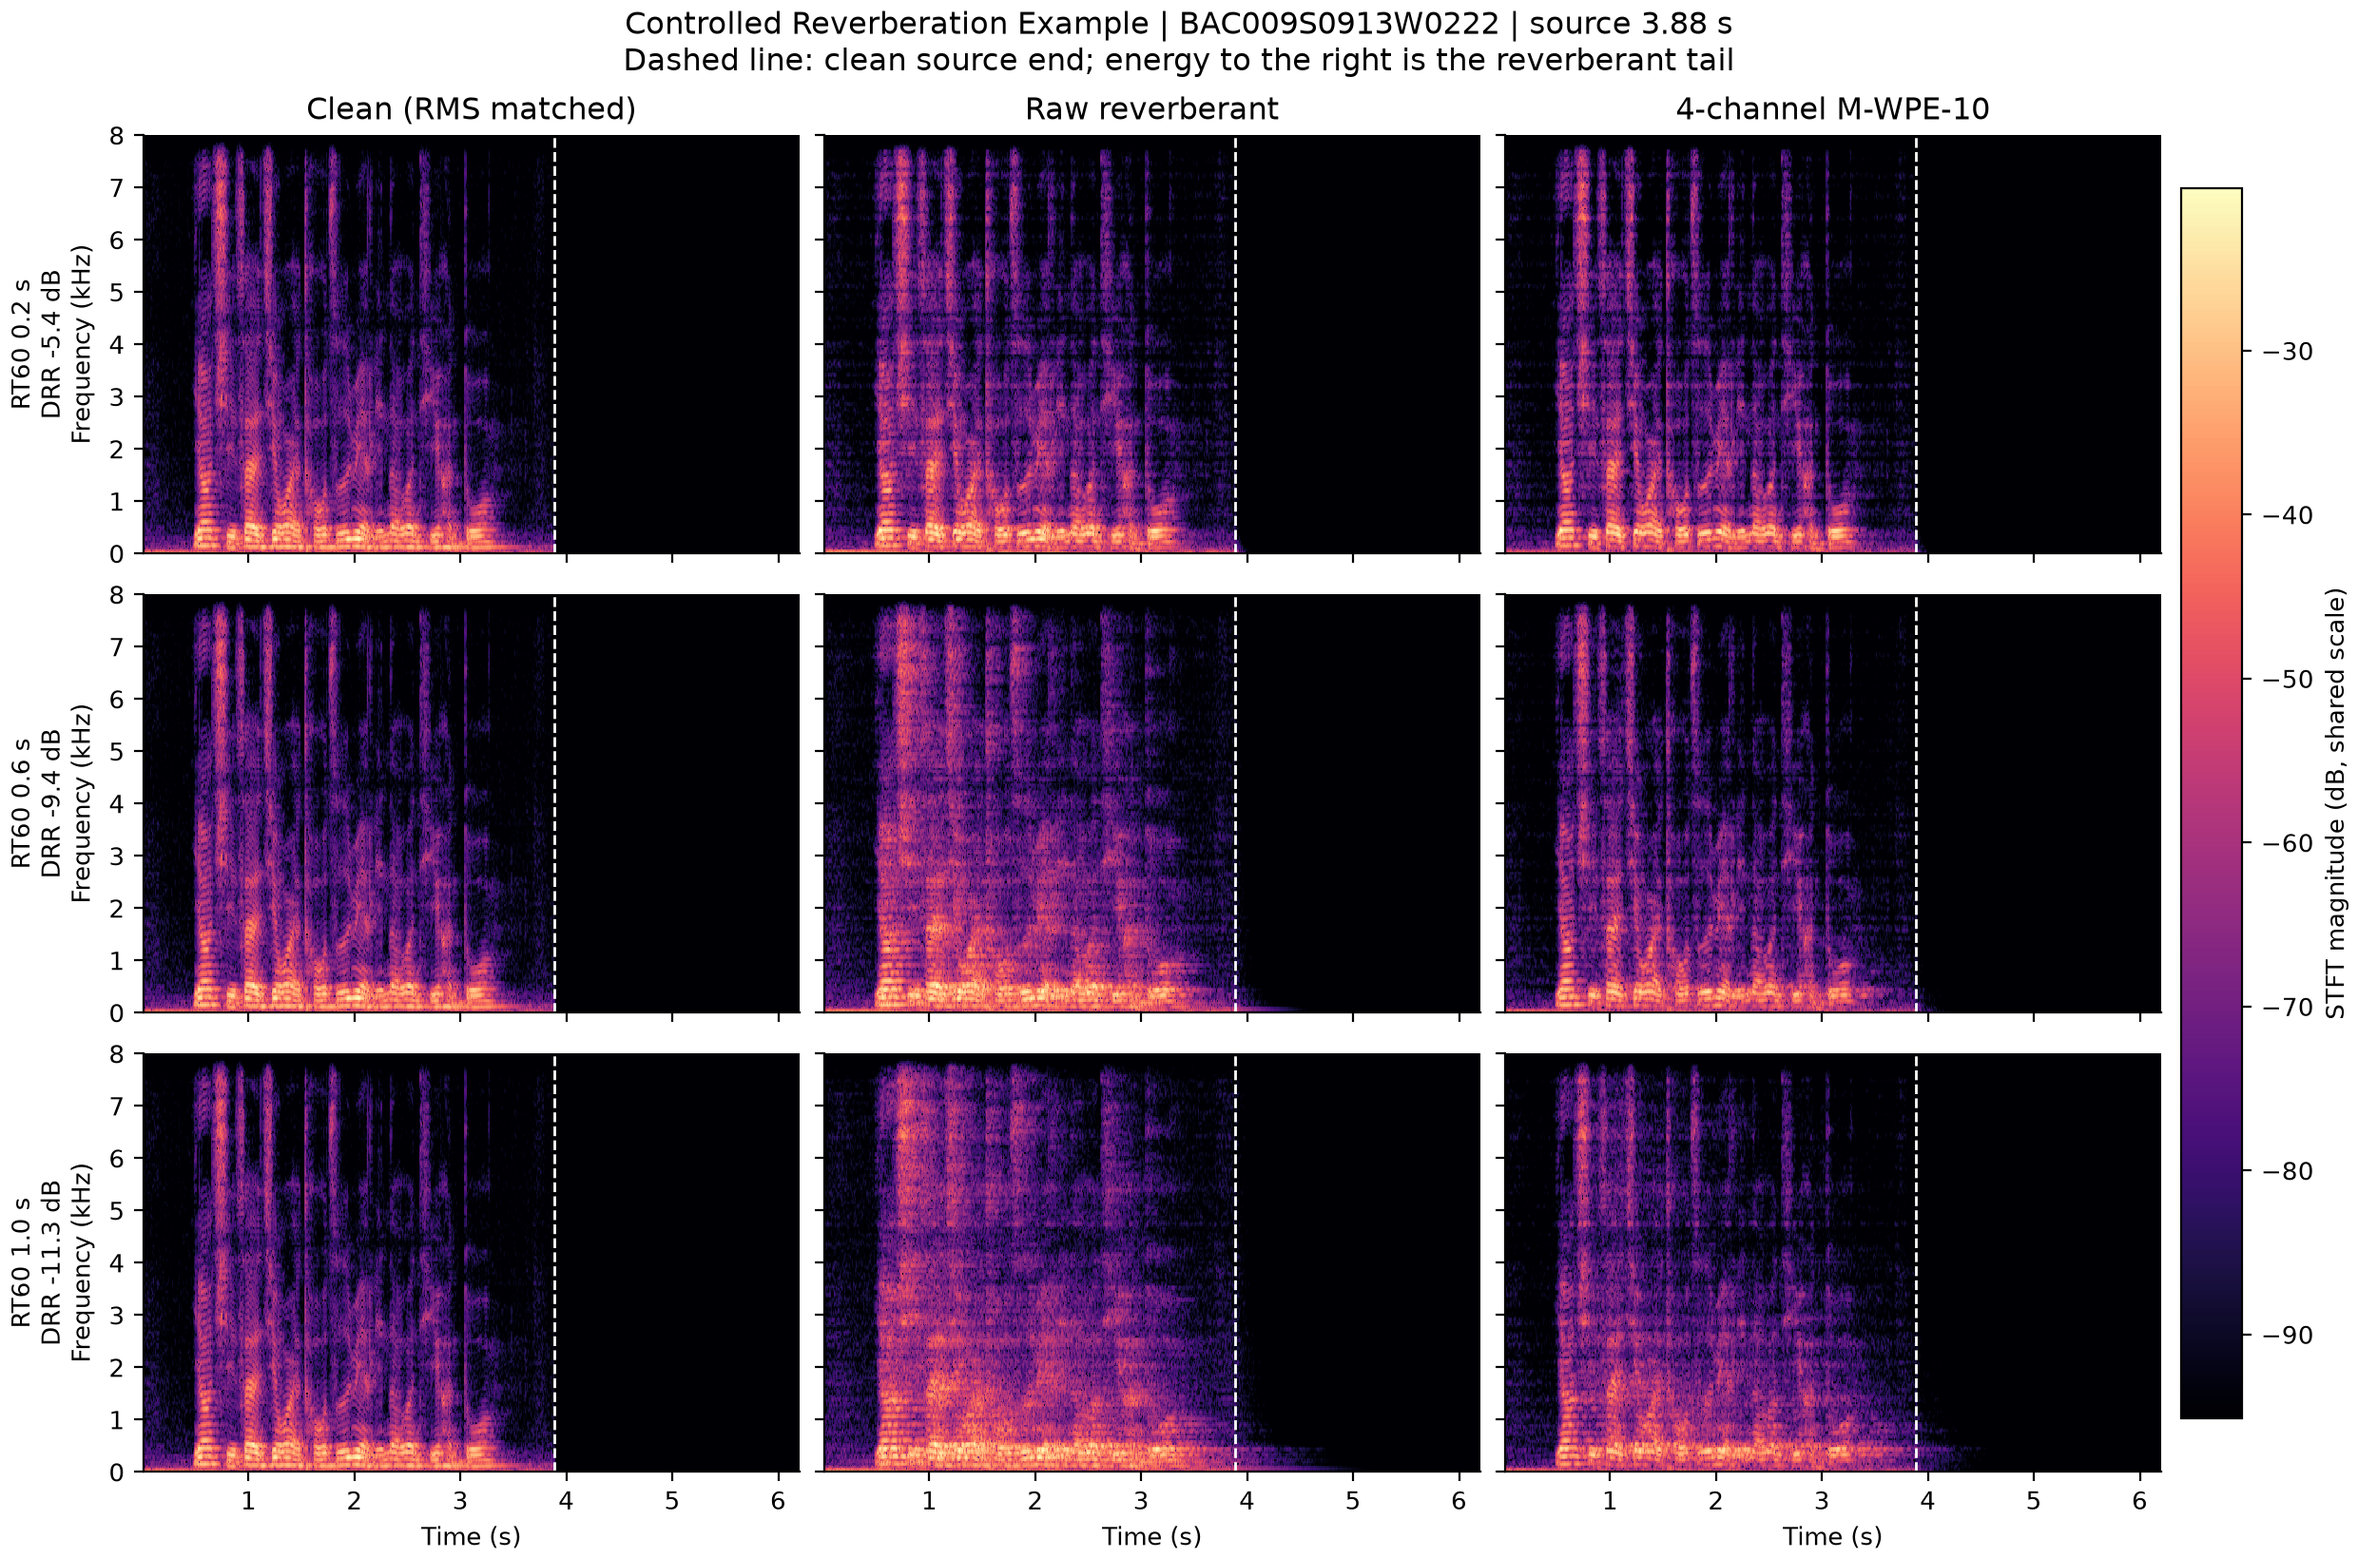
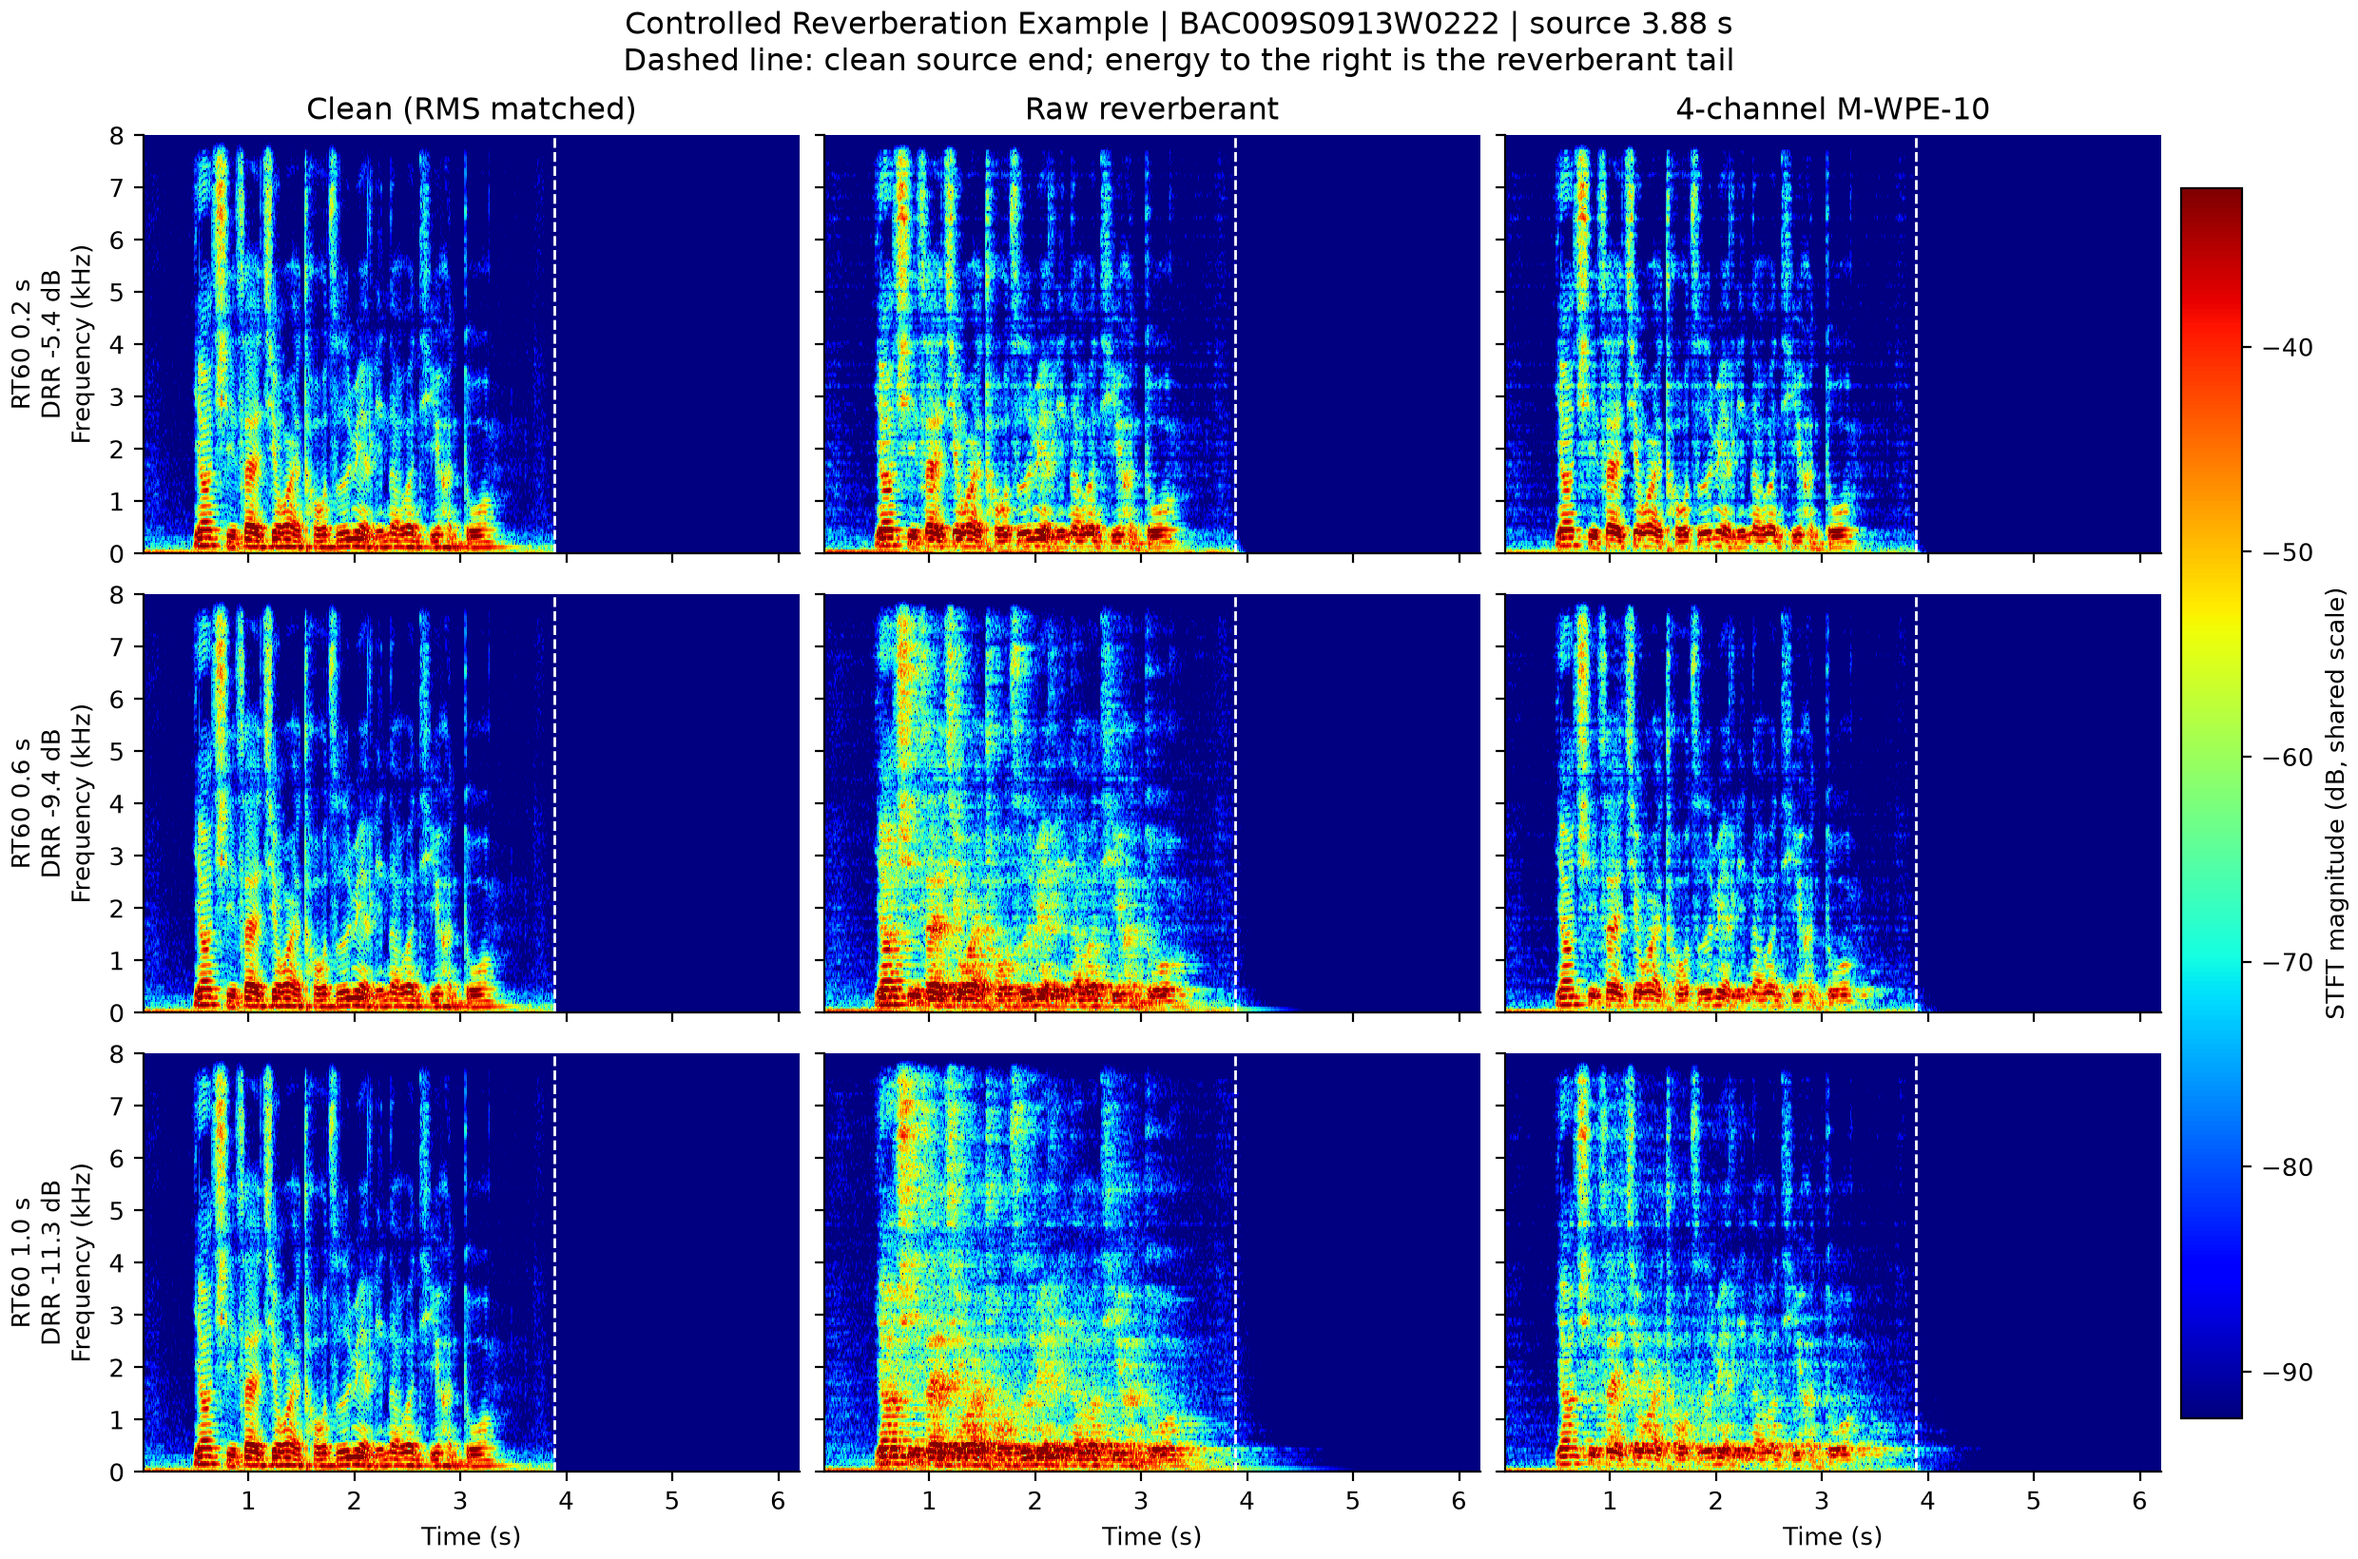
docs: clarify reverberation tails

diff --git a/scripts/robust_asr/plot_reverberation_examples.py b/scripts/robust_asr/plot_reverberation_examples.py
@@ -10,7 +10,7 @@ from typing import Any
 
 import numpy as np
 import soundfile as sf
-from scipy.signal import stft
+from scipy.signal import butter, hilbert, sosfiltfilt, stft
 
 from robust_asr.acoustics.rir import convolve_multichannel
 from robust_asr.dereverb.frontend import apply_frontend
@@ -39,7 +39,10 @@ def arguments() -> argparse.Namespace:
     parser.add_argument("--rir-family-id", default="test_r000_f000")
     parser.add_argument("--rt60", type=float, nargs="+", default=(0.2, 0.6, 1.0))
     parser.add_argument("--spectrogram-output", type=Path, required=True)
+    parser.add_argument("--band-envelope-output", type=Path, required=True)
     parser.add_argument("--rir-output", type=Path, required=True)
+    parser.add_argument("--band-low-hz", type=float, default=300.0)
+    parser.add_argument("--band-high-hz", type=float, default=1200.0)
     return parser.parse_args()
 
 
@@ -170,16 +173,16 @@ def _plot_spectrograms(
         for signal in (example.clean_timeline, example.raw, example.m_wpe)
     )
     prepared: dict[tuple[int, str], tuple[np.ndarray, ...]] = {}
-    maxima: list[float] = []
+    magnitudes: list[np.ndarray] = []
     for row_index, example in enumerate(examples):
         for field, _ in columns:
             signal = np.asarray(getattr(example, field), dtype=np.float64)
             padded = np.pad(signal, (0, longest - signal.size))
             values = _spectrogram(padded, sample_rate)
             prepared[(row_index, field)] = values
-            maxima.append(float(np.max(values[2])))
-    color_max = max(maxima)
-    color_min = color_max - 75.0
+            magnitudes.append(values[2].ravel())
+    color_max = float(np.quantile(np.concatenate(magnitudes), 0.997))
+    color_min = color_max - 60.0
 
     plt.rcParams.update(
         {
@@ -209,7 +212,7 @@ def _plot_spectrograms(
                 frequencies / 1000.0,
                 magnitude_db,
                 shading="auto",
-                cmap="magma",
+                cmap="jet",
                 vmin=color_min,
                 vmax=color_max,
             )
@@ -232,6 +235,133 @@ def _plot_spectrograms(
         f"Controlled Reverberation Example | {utterance['utterance_id']} | "
         f"source {float(utterance['duration_seconds']):.2f} s\n"
         "Dashed line: clean source end; energy to the right is the reverberant tail"
+    )
+    output.parent.mkdir(parents=True, exist_ok=True)
+    figure.savefig(output, dpi=200, format="png")
+    plt.close(figure)
+
+
+def _band_envelope(
+    signal: np.ndarray,
+    *,
+    sample_rate: int,
+    low_hz: float,
+    high_hz: float,
+) -> np.ndarray:
+    if not 0.0 < low_hz < high_hz < sample_rate / 2:
+        raise ValueError("band limits must satisfy 0 < low < high < Nyquist")
+    sos = butter(
+        4,
+        (low_hz, high_hz),
+        btype="bandpass",
+        fs=sample_rate,
+        output="sos",
+    )
+    filtered = sosfiltfilt(sos, np.asarray(signal, dtype=np.float64))
+    envelope = np.abs(hilbert(filtered))
+    window = max(1, round(0.02 * sample_rate))
+    return np.convolve(envelope, np.ones(window) / window, mode="same")
+
+
+def _plot_band_envelopes(
+    *,
+    utterance: dict[str, Any],
+    examples: list[Example],
+    sample_rate: int,
+    low_hz: float,
+    high_hz: float,
+    output: Path,
+) -> None:
+    import matplotlib
+
+    matplotlib.use("Agg")
+    import matplotlib.pyplot as plt
+
+    fields = (
+        ("clean_timeline", "Clean", "#4b5563", "--"),
+        ("raw", "Raw reverberant", "#dc2626", "-"),
+        ("m_wpe", "M-WPE-10", "#047857", "-"),
+    )
+    prepared: dict[tuple[int, str], np.ndarray] = {}
+    reference = 0.0
+    longest = max(
+        signal.size
+        for example in examples
+        for signal in (example.clean_timeline, example.raw, example.m_wpe)
+    )
+    for row_index, example in enumerate(examples):
+        for field, _, _, _ in fields:
+            signal = np.asarray(getattr(example, field), dtype=np.float64)
+            padded = np.pad(signal, (0, longest - signal.size))
+            envelope = _band_envelope(
+                padded,
+                sample_rate=sample_rate,
+                low_hz=low_hz,
+                high_hz=high_hz,
+            )
+            prepared[(row_index, field)] = envelope
+            reference = max(reference, float(np.max(envelope)))
+    if reference <= np.finfo(float).tiny:
+        raise ValueError("band-limited examples are silent")
+
+    figure, axes = plt.subplots(
+        len(examples),
+        2,
+        figsize=(11.2, 7.5),
+        sharey=True,
+        constrained_layout=True,
+    )
+    full_time = np.arange(longest) / sample_rate
+    for row_index, example in enumerate(examples):
+        source_end = (
+            example.arrival_sample + int(utterance["frames"])
+        ) / sample_rate
+        for field, label, color, linestyle in fields:
+            envelope_db = 20.0 * np.log10(
+                np.maximum(
+                    prepared[(row_index, field)] / reference,
+                    1e-5,
+                )
+            )
+            axes[row_index, 0].plot(
+                full_time,
+                envelope_db,
+                label=label,
+                color=color,
+                linestyle=linestyle,
+                linewidth=1.45,
+            )
+            relative_time = full_time - source_end
+            axes[row_index, 1].plot(
+                relative_time,
+                envelope_db,
+                label=label,
+                color=color,
+                linestyle=linestyle,
+                linewidth=1.55,
+            )
+        for axis in axes[row_index]:
+            axis.axvline(
+                0.0 if axis is axes[row_index, 1] else source_end,
+                color="#111827",
+                linestyle=":",
+                linewidth=1.0,
+            )
+            axis.grid(alpha=0.2)
+            axis.set_ylim(-80.0, 3.0)
+        axes[row_index, 0].set_ylabel(
+            f"RT60 {example.target_rt60:.1f} s\n"
+            f"DRR {example.drr_db:+.1f} dB\nEnvelope (dB)"
+        )
+        axes[row_index, 1].set_xlim(-0.25, 1.25)
+    axes[0, 0].set_title("Full utterance")
+    axes[0, 1].set_title("Tail zoom around source end")
+    axes[-1, 0].set_xlabel("Time (s)")
+    axes[-1, 1].set_xlabel("Time relative to clean source end (s)")
+    axes[0, 1].legend(frameon=False, ncol=3, fontsize=8.5, loc="lower left")
+    figure.suptitle(
+        f"{low_hz:.0f}-{high_hz:.0f} Hz Band-Limited Temporal Envelope | "
+        "shared amplitude reference"
     )
     output.parent.mkdir(parents=True, exist_ok=True)
     figure.savefig(output, dpi=200, format="png")
@@ -298,7 +428,11 @@ def _plot_rir_decay(
 
 def main() -> None:
     args = arguments()
-    for output in (args.spectrogram_output, args.rir_output):
+    for output in (
+        args.spectrogram_output,
+        args.band_envelope_output,
+        args.rir_output,
+    ):
         if output.suffix.lower() != ".png":
             raise ValueError("documentation figure output must be PNG")
     root = require_data_root(args.data_root)
@@ -314,10 +448,18 @@ def main() -> None:
         sample_rate=sample_rate,
         output=args.spectrogram_output,
     )
+    _plot_band_envelopes(
+        utterance=utterance,
+        examples=examples,
+        sample_rate=sample_rate,
+        low_hz=args.band_low_hz,
+        high_hz=args.band_high_hz,
+        output=args.band_envelope_output,
+    )
     _plot_rir_decay(examples=examples, sample_rate=sample_rate, output=args.rir_output)
     print(
         f"Rendered {utterance['utterance_id']} with {args.rir_family_id}: "
-        f"{args.spectrogram_output}, {args.rir_output}"
+        f"{args.spectrogram_output}, {args.band_envelope_output}, {args.rir_output}"
     )
 
 

diff --git a/docs/robust_asr/04_可视化分析.md b/docs/robust_asr/04_可视化分析.md
@@ -17,8 +17,10 @@
 - 同一房间和几何，只改变目标 RT60 与对应吸收率。
 
 三列分别是 RMS 匹配的 clean、四通道参考通道 Raw 和 M-WPE-10 输出；三行是
-RT60 0.2/0.6/1.0 s。所有子图共用同一 STFT dB 色标，没有对 Raw 和 WPE 分别做
-峰值归一化。白色虚线表示 clean 声源结束时刻，其右侧的能量是传播尾音。
+RT60 0.2/0.6/1.0 s。所有子图使用 `jet` colormap 和同一 STFT dB 色标：
+上限取全部子图幅度的 99.7% 分位数，展示 60 dB 动态范围。这样既避免少数峰值
+压缩颜色对比，也没有对 Raw 和 WPE 分别归一化。白色虚线表示 clean 声源
+结束时刻，其右侧的能量是传播尾音。
 
 ![Clean、Raw 混响与 M-WPE 样本时频图](../figures/robust_asr_sample_spectrograms.png)
 
@@ -32,7 +34,26 @@ RT60 0.2/0.6/1.0 s。所有子图共用同一 STFT dB 色标，没有对 Raw 和
 这是一个受控定性样例，用于解释机制；是否改善 ASR 仍以 1,000 条 Whisper test 和
 500 条 Paraformer test 的 corpus CER 与配对区间为准。
 
-## 2. RIR 持续时间与强度
+## 2. 300–1200 Hz 带通时域包络
+
+为了更直观地查看混响拖尾，下图对同一组音频使用四阶 Butterworth
+300–1200 Hz 带通滤波，经零相位滤波后计算 Hilbert 包络，再用 20 ms 窗平滑。
+所有曲线共用同一幅度参考，因此 Raw 与 WPE 的强度差异仍被保留。左列是整句，
+右列是相对 clean 声源结束时刻的尾音局部放大，竖线的相对时间为 0 s。
+
+![300–1200 Hz 带通时域包络与混响拖尾](../figures/robust_asr_band_envelopes.png)
+
+图中可见：
+
+1. RT60=0.2 s 时 Raw 拖尾较短，M-WPE 与 Raw 的差异也较小；
+2. RT60=0.6 s 时 Raw 在声源结束后仍保留较强能量，M-WPE 的衰减更快；
+3. RT60=1.0 s 时 Raw 明显拖尾到约 1.1 s，M-WPE 的残余能量更弱，且约在
+   0.8 s 后逐步消失，但仍未恢复成 clean。
+
+带通包络用于说明拖尾的持续时间和相对强度，它是定性证据，不代替 RIR 的
+RT60/DRR 声学测量，也不代替 ASR 的 CER 评测。
+
+## 3. RIR 持续时间与强度
 
 下图使用同一 RIR family 的参考通道。左图是 5 ms 平滑能量包络，三条曲线共用
 幅度参考；右图是 Schroeder energy decay curve，圆点标记测得 RT60 的 `-60 dB`
@@ -49,7 +70,7 @@ RT60 0.2/0.6/1.0 s。所有子图共用同一 STFT dB 色标，没有对 Raw 和
 它把时频图的现象与声学量联系起来：RT60 增大时，能量衰减更慢、尾音更长；
 DRR 同时下降，表示反射能量相对直达声更强。
 
-## 3. 正式统计效应对比
+## 4. 正式统计效应对比
 
 森林图统一展示 Robust（RT60 0.4–1.0 s）的绝对 CER 差值及 95% paired bootstrap
 区间。负值表示改善，区间跨过零线表示当前实验不能证明额外收益。
@@ -62,7 +83,7 @@ DRR 同时下降，表示反射能量相对直达声更强。
 - MCT 相对 Clean-LoRA 在 Raw 上改善 `1.16 pp`，区间低于零；
 - 加入 M-WPE 后，MCT 只改善 `0.10 pp`，区间跨零，表明二者对混响的收益高度重叠。
 
-## 4. DRR 与同 RT60 内的 CER 退化
+## 5. DRR 与同 RT60 内的 CER 退化
 
 每个点代表一个 test RIR，y 轴是该 RIR 上各语句相对配对 clean 的平均 CER 退化。
 线性导引使用对离群点稳健的 Theil-Sen 估计，统计量仍是预先确定的 Spearman ρ。
@@ -75,12 +96,13 @@ RIR 的主体分布。
 DRR 越低、直达声相对越弱，平均 CER 退化通常越大。散点仍有明显离散，所以 DRR 是
 解释变量，不是完整决定识别难度的单一指标。
 
-## 5. 复现入口
+## 6. 复现入口
 
 ```bash
 python scripts/robust_asr/plot_reverberation_examples.py \
   --data-root "$ROBUST_ASR_DATA_ROOT" \
   --spectrogram-output docs/figures/robust_asr_sample_spectrograms.png \
+  --band-envelope-output docs/figures/robust_asr_band_envelopes.png \
   --rir-output docs/figures/robust_asr_rir_decay.png
 
 python scripts/robust_asr/plot_effect_intervals.py \
